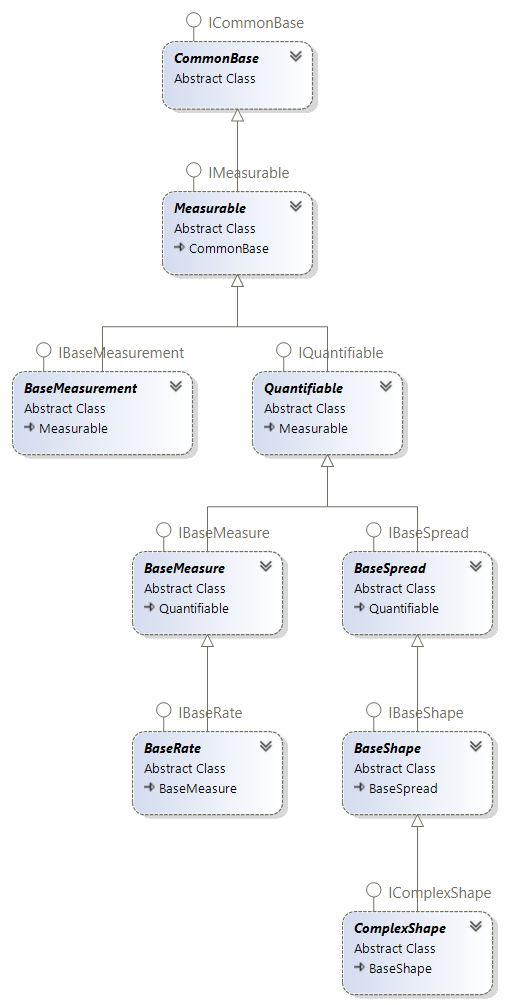
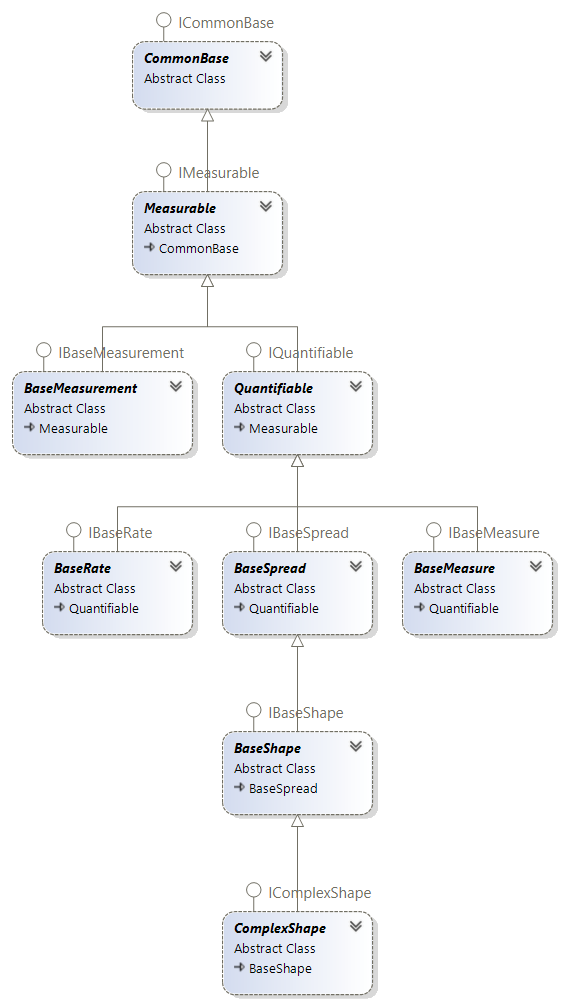
Shift IBaseRate inheritance from IbaseMeasure to IQuantifiable

diff --git a/Measures/Types/IMeasure.cs b/Measures/Types/IMeasure.cs
@@ -1,0 +1,24 @@
+namespace CsabaDu.FooVaria.Measures.Types
+{
+    public interface IMeasure : IBaseMeasure, ILimitable, ICalculate<IMeasure, decimal>
+    {
+        IMeasure GetMeasure(IBaseMeasure rateComponent);
+    }
+
+    public interface IMeasure<TSelf, TNum> : IMeasure/*, IRateComponent<TSelf, TNum>*/
+        where TSelf : class, IMeasure/*, IDefaultRateComponent*/
+        where TNum : struct
+    {
+        TSelf GetMeasure(string name, TNum quantity);
+        TSelf GetMeasure(IBaseMeasurement measurement, TNum quantity);
+    }
+
+    public interface IMeasure<TSelf, TNum, TEnum> : IMeasure<TSelf, TNum>, IMeasureUnit<TEnum>
+        where TSelf : class, IMeasure/*, IDefaultRateComponent*/, IMeasureUnit
+        where TNum : struct
+        where TEnum : struct, Enum
+    {
+        TSelf GetMeasure(TEnum measureUnit, TNum quantity);
+        TSelf GetMeasure(TEnum measureUnit);
+    }
+}

diff --git a/Common/Factories/IBaseRateFactory.cs b/Common/Factories/IBaseRateFactory.cs
@@ -1,6 +1,6 @@
 namespace CsabaDu.FooVaria.Common.Factories;
 
-public interface IBaseRateFactory : IBaseMeasureFactory/*<IBaseRate, IMeasurable>*/
+public interface IBaseRateFactory : IQuantifiableFactory/*<IBaseRate, IMeasurable>*/
 {
     IBaseRate CreateBaseRate(IBaseMeasure numerator, IBaseMeasurement denominatorMeasurement);
     IBaseRate CreateBaseRate(IBaseMeasure numerator, Enum denominatorMeasureUnit);

diff --git a/Common/Types/IBaseRate.cs b/Common/Types/IBaseRate.cs
@@ -1,6 +1,6 @@
 namespace CsabaDu.FooVaria.Common.Types;
 
-public interface IBaseRate : IBaseMeasure/*<IBaseRate, IMeasurable>*/, IQuantity<decimal>, IProportional<IBaseRate>, IDenominate
+public interface IBaseRate : IQuantifiable/*<IBaseRate, IMeasurable>*/, IQuantity<decimal>, IProportional<IBaseRate>, IDenominate
 {
     MeasureUnitTypeCode? this[RateComponentCode rateComponentCode] { get; }
 

diff --git a/Common/Types/Implementations/BaseRate.cs b/Common/Types/Implementations/BaseRate.cs
@@ -1,6 +1,6 @@
 namespace CsabaDu.FooVaria.Common.Types.Implementations;
 
-public abstract class BaseRate : BaseMeasure, IBaseRate
+public abstract class BaseRate : Quantifiable, IBaseRate
 {
     #region Constructors
     protected BaseRate(IBaseRate other) : base(other)

diff --git a/Measures/Behaviors/ILimitable.cs b/Measures/Behaviors/ILimitable.cs
@@ -1,0 +1,8 @@
+using CsabaDu.FooVaria.Common.Types;
+
+namespace CsabaDu.FooVaria.Measures.Behaviors;
+
+public interface ILimitable : IFit<IBaseMeasure>
+{
+    bool? FitsIn(ILimiter? limiter);
+}

diff --git a/Measures/GlobalUsings.cs b/Measures/GlobalUsings.cs
@@ -1,0 +1,3 @@
+global using CsabaDu.FooVaria.Common.Behaviors;
+global using CsabaDu.FooVaria.Common.Types;
+global using CsabaDu.FooVaria.Measures.Behaviors;
